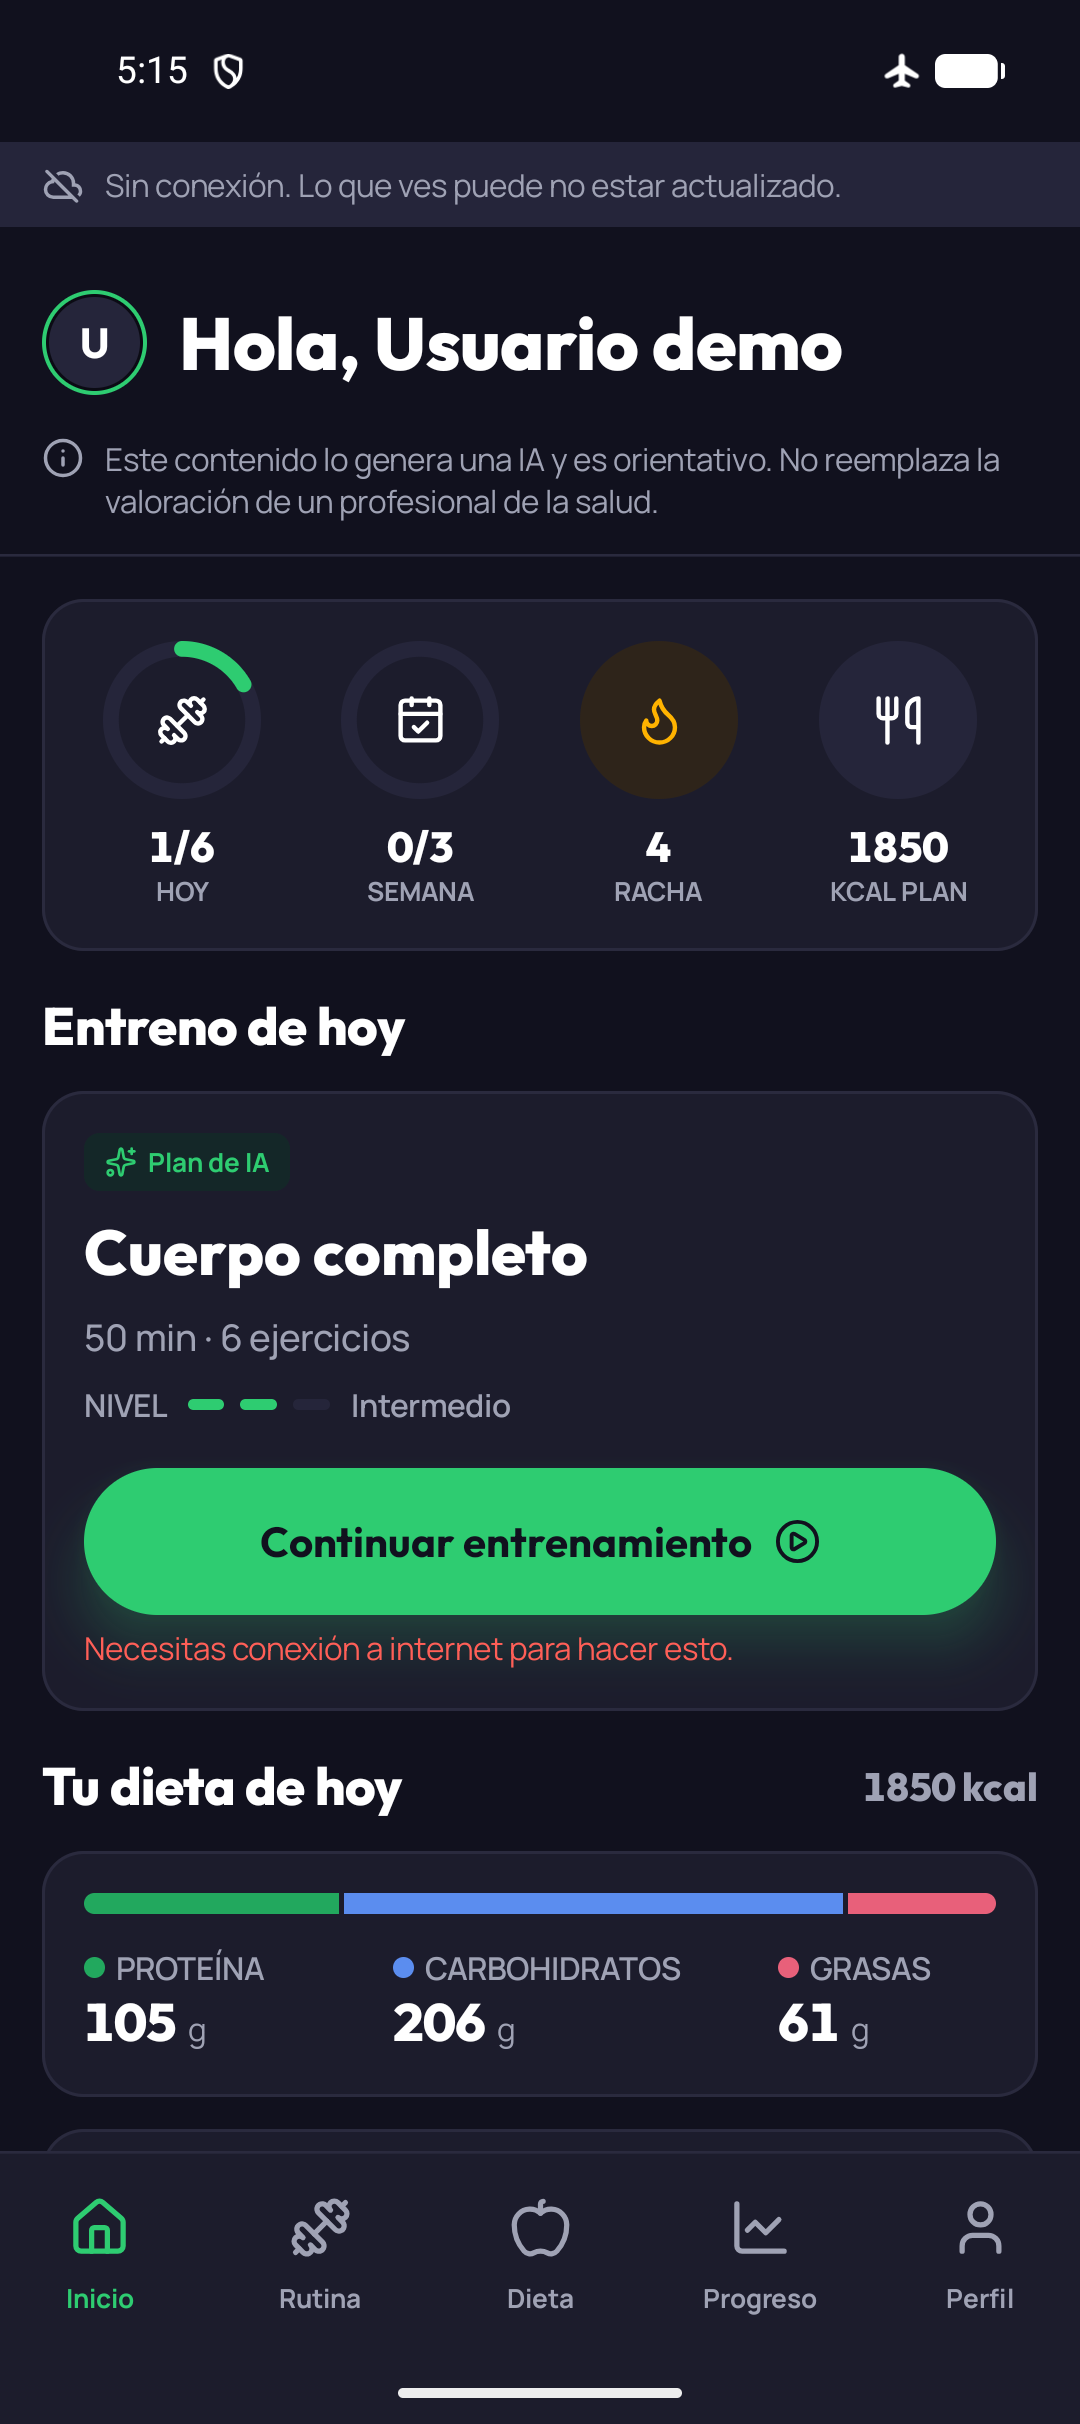
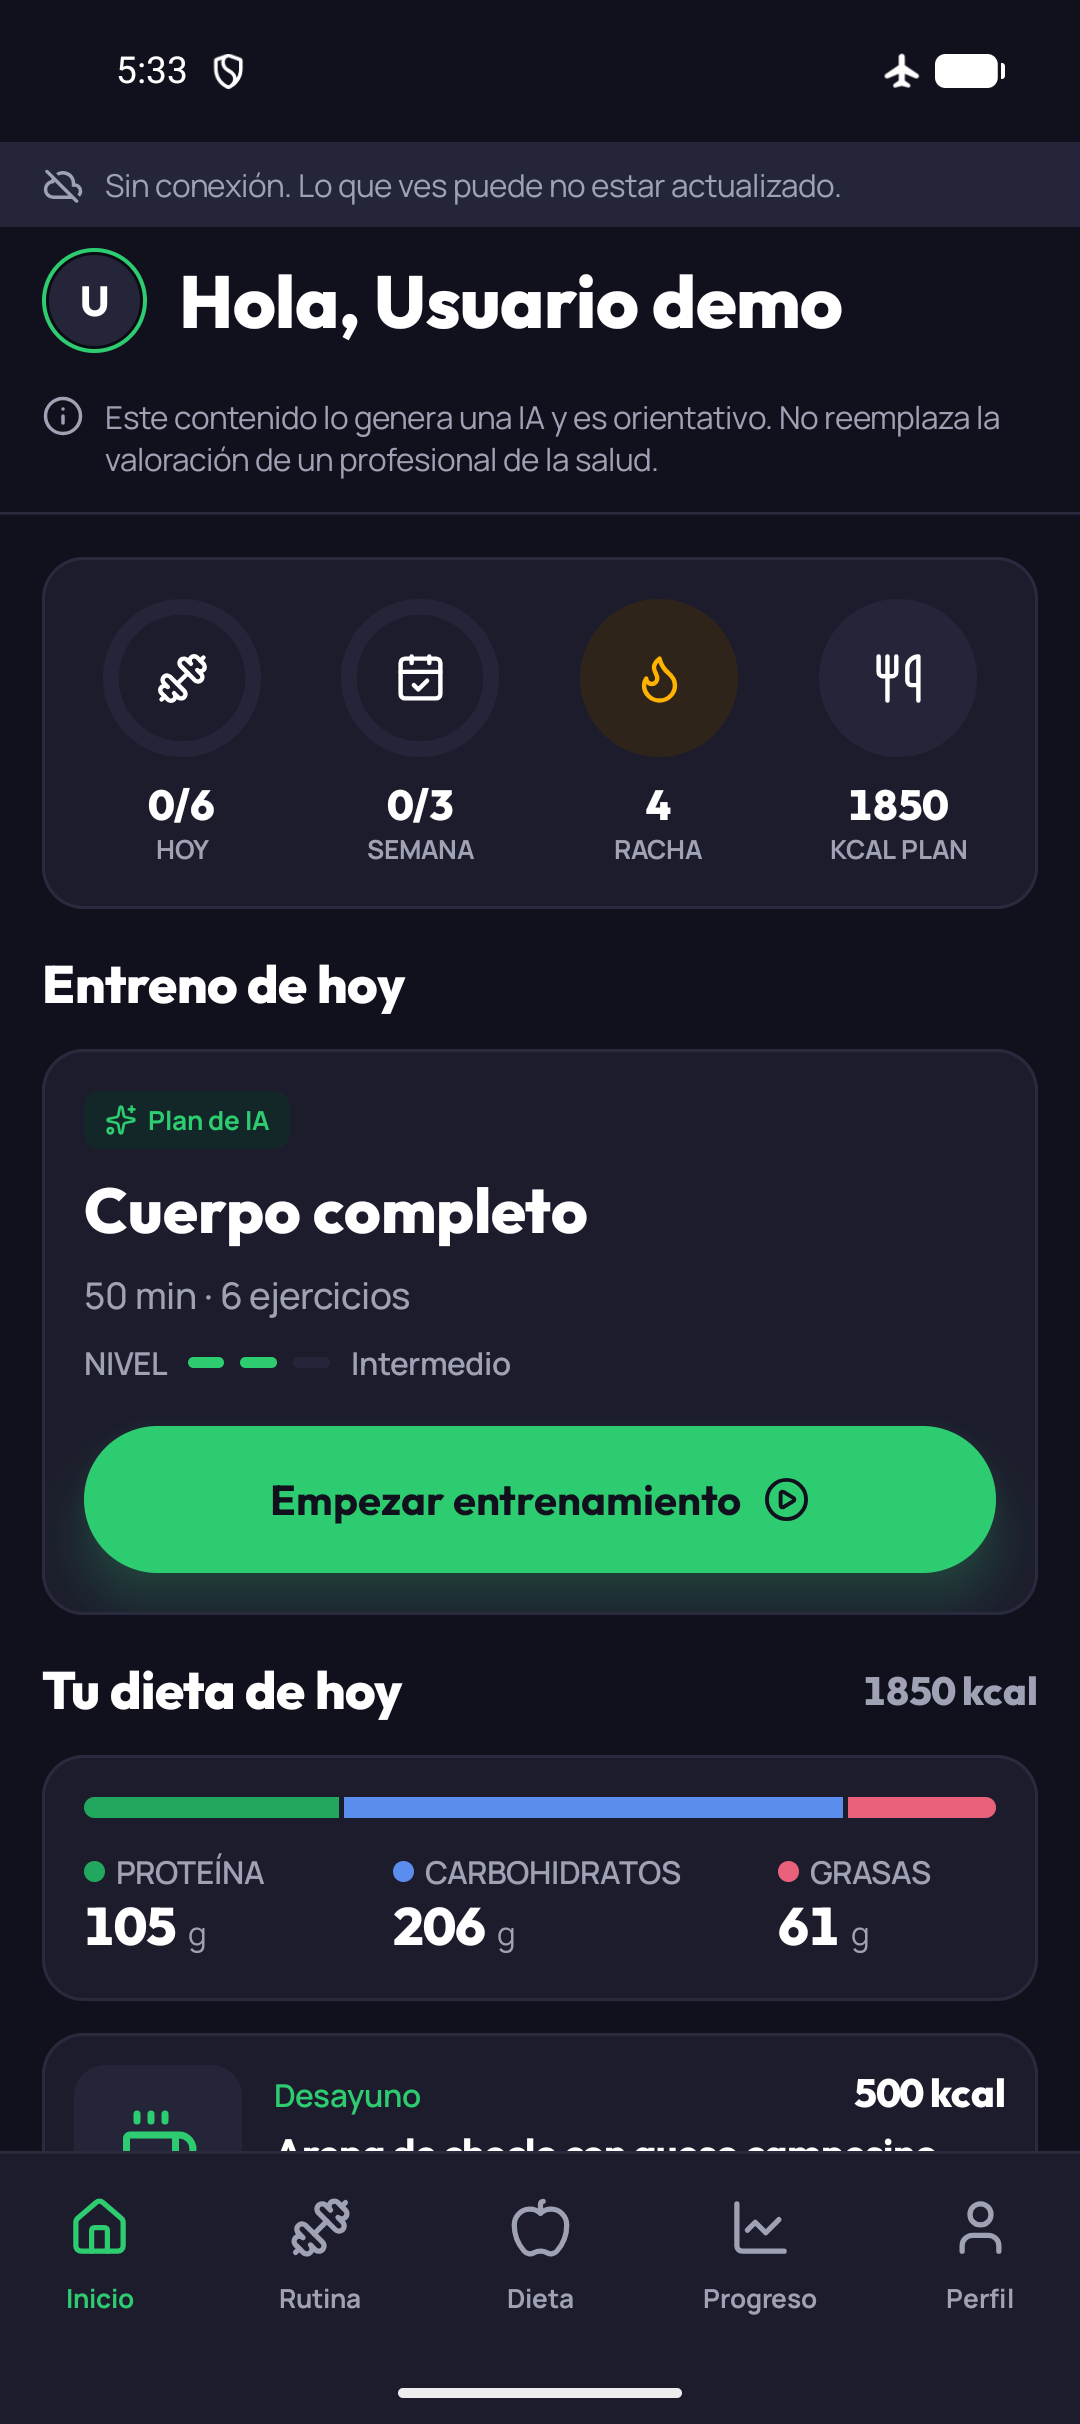
fix(home): drop offline hint under a working CTA
The workout CTA opens the cached session offline, so "Necesitas conexión"
under it read as if it were blocked; elsewhere OfflineHint always sits
under a disabled control. The OfflineBanner already says the user is
offline and the day screen shows the hint where marking is blocked.
WorkoutCard loses its now-unused online parameter.

While checking this on the device the banner was missing: the item keys
added in 1f46d0b make LazyColumn keep the greeting pinned at the top, so
a banner inserted at index 0 landed above the viewport. The banner now
sits above the list, as in StateContent: always visible and the scroll
never shifts. The keys are gone, since they only existed for the banner.

diff --git a/app/src/main/java/com/allfitness/app/home/HomeScreen.kt b/app/src/main/java/com/allfitness/app/home/HomeScreen.kt
@@ -59,7 +59,6 @@ import com.allfitness.app.core.ui.EmptyState
 import com.allfitness.app.core.ui.ErrorState
 import com.allfitness.app.core.ui.LoadingState
 import com.allfitness.app.core.ui.OfflineBanner
-import com.allfitness.app.core.ui.OfflineHint
 import com.allfitness.app.core.ui.PrimaryButton
 import com.allfitness.app.core.ui.ProgressRing
 import com.allfitness.app.core.ui.Refresher
@@ -174,28 +173,30 @@ fun HomeScreen(
 
     val todayRow = (week as? UiState.Content)?.data?.first { it.isToday }
     val edge = Modifier.padding(horizontal = Spacing.m)
-    LazyColumn(
-        Modifier.fillMaxSize().windowInsetsPadding(WindowInsets.safeDrawing.only(WindowInsetsSides.Top + WindowInsetsSides.Horizontal)),
-        contentPadding = PaddingValues(bottom = Spacing.l),
-        verticalArrangement = Arrangement.spacedBy(Spacing.m),
-    ) {
-        // Con clave: al aparecer el aviso sin conexión la lista no salta un ítem.
-        if (!online) item(key = "offline") { OfflineBanner(savedAt = null) }
-        item(key = "greeting") { Greeting(name, edge.padding(top = Spacing.s)) }
-        item(key = "ai") { AiNote() }
-        item(key = "stats") { Indicators(todayRow, summary, (diet as? UiState.Content)?.data?.totals?.kcal, edge) }
-        item(key = "workout") {
-            Section(stringResource(R.string.home_today_workout), edge) {
-                SectionState(week, stringResource(R.string.routine_empty), stringResource(R.string.routine_empty_offline), viewModel::onResume) {
-                    WorkoutCard(it.first { row -> row.isToday }, profile, online, onOpenSession)
+    // El aviso sin conexión va fijo sobre la lista, como en StateContent: siempre a la vista y sin mover el scroll.
+    Column(Modifier.fillMaxSize().windowInsetsPadding(WindowInsets.safeDrawing.only(WindowInsetsSides.Top + WindowInsetsSides.Horizontal))) {
+        if (!online) OfflineBanner(savedAt = null)
+        LazyColumn(
+            Modifier.weight(1f),
+            contentPadding = PaddingValues(bottom = Spacing.l),
+            verticalArrangement = Arrangement.spacedBy(Spacing.m),
+        ) {
+            item { Greeting(name, edge.padding(top = Spacing.s)) }
+            item { AiNote() }
+            item { Indicators(todayRow, summary, (diet as? UiState.Content)?.data?.totals?.kcal, edge) }
+            item {
+                Section(stringResource(R.string.home_today_workout), edge) {
+                    SectionState(week, stringResource(R.string.routine_empty), stringResource(R.string.routine_empty_offline), viewModel::onResume) {
+                        WorkoutCard(it.first { row -> row.isToday }, profile, onOpenSession)
+                    }
                 }
             }
-        }
-        item(key = "diet") { DietSection(diet, onOpenMeal, viewModel::onResume, edge) }
-        item(key = "progress") {
-            Section(stringResource(R.string.progress_title), edge, trailing = { summary?.let { StreakBadge(it.weekStreak) } }) {
-                SectionState(week, stringResource(R.string.routine_empty), stringResource(R.string.routine_empty_offline), viewModel::onResume) { rows ->
-                    AppCard(Modifier.fillMaxWidth()) { WeekStrip(rows, selected = null, onSelect = null, Modifier.padding(Spacing.s)) }
+            item { DietSection(diet, onOpenMeal, viewModel::onResume, edge) }
+            item {
+                Section(stringResource(R.string.progress_title), edge, trailing = { summary?.let { StreakBadge(it.weekStreak) } }) {
+                    SectionState(week, stringResource(R.string.routine_empty), stringResource(R.string.routine_empty_offline), viewModel::onResume) { rows ->
+                        AppCard(Modifier.fillMaxWidth()) { WeekStrip(rows, selected = null, onSelect = null, Modifier.padding(Spacing.s)) }
+                    }
                 }
             }
         }
@@ -322,7 +323,7 @@ private fun Disc(@DrawableRes icon: Int, background: Color, tint: Color) {
 
 /** Tarjeta del entreno de hoy (Figma `workout-card`). Sin conexión se puede abrir, pero marcar pide red (FR-039). */
 @Composable
-private fun WorkoutCard(today: WeekDayRow, profile: Profile?, online: Boolean, onOpenSession: (LocalDate, Int) -> Unit) {
+private fun WorkoutCard(today: WeekDayRow, profile: Profile?, onOpenSession: (LocalDate, Int) -> Unit) {
     val scheme = MaterialTheme.colorScheme
     val training = today.day.type == DayType.TRAINING
     val count = today.day.exercises.size
@@ -352,15 +353,12 @@ private fun WorkoutCard(today: WeekDayRow, profile: Profile?, online: Boolean, o
                 }
             }
             when (val cta = today.workoutCta()) {
-                WorkoutCta.START, WorkoutCta.CONTINUE -> Column(verticalArrangement = Arrangement.spacedBy(Spacing.xs)) {
-                    PrimaryButton(
-                        text = stringResource(if (cta == WorkoutCta.START) R.string.action_start_workout else R.string.action_continue_workout),
-                        onClick = { onOpenSession(today.date, today.firstPendingIndex()) },
-                        modifier = Modifier.fillMaxWidth(),
-                        trailingIcon = R.drawable.lc_circle_play,
-                    )
-                    if (!online) OfflineHint()
-                }
+                WorkoutCta.START, WorkoutCta.CONTINUE -> PrimaryButton(
+                    text = stringResource(if (cta == WorkoutCta.START) R.string.action_start_workout else R.string.action_continue_workout),
+                    onClick = { onOpenSession(today.date, today.firstPendingIndex()) },
+                    modifier = Modifier.fillMaxWidth(),
+                    trailingIcon = R.drawable.lc_circle_play,
+                )
                 WorkoutCta.FINISHED -> Row(verticalAlignment = Alignment.CenterVertically, horizontalArrangement = Arrangement.spacedBy(Spacing.s)) {
                     Icon(painterResource(R.drawable.lc_check), contentDescription = null, Modifier.size(Spacing.m), tint = scheme.primary)
                     Text(stringResource(R.string.session_finished_message), style = MaterialTheme.typography.bodyLarge)
